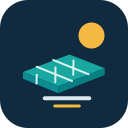
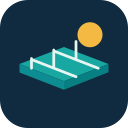
Expose total grid import and export energy

Changed region(s): [[0.125, 0.1875, 0.875, 0.8438], [0.6562, 0.1562, 0.75, 0.1875], [0.625, 0.1875, 0.6562, 0.2188]]

diff --git a/tests/test_models.py b/tests/test_models.py
@@ -214,6 +214,12 @@ class RegisterMapTests(unittest.TestCase):
         self.assertEqual(mappings["fields"]["WH"]["scale"], 100)
         self.assertEqual(mappings["fields"]["MTR_W"]["address"], 5600)
         self.assertEqual(mappings["fields"]["MTR_W"]["invalid_values"], [2147483647])
+        self.assertEqual(mappings["fields"]["MTR_TotWhImp"]["address"], 13036)
+        self.assertEqual(mappings["fields"]["MTR_TotWhImp"]["scale"], 100)
+        self.assertEqual(mappings["fields"]["MTR_TotWhImp"]["word_order"], "swap")
+        self.assertEqual(mappings["fields"]["MTR_TotWhExp"]["address"], 13045)
+        self.assertEqual(mappings["fields"]["MTR_TotWhExp"]["scale"], 100)
+        self.assertEqual(mappings["fields"]["MTR_TotWhExp"]["word_order"], "swap")
 
     def test_community_profile_values_encode_at_documented_sunspec_points(self):
         profile_path = (
@@ -291,6 +297,63 @@ class RegisterMapTests(unittest.TestCase):
         self.assertEqual(
             registers[model_203_data + meter_offsets["MTR_W"]], 0xF63C
         )
+
+    def test_meter_model_exposes_total_grid_import_and_export_energy(self):
+        profile_path = (
+            Path(__file__).parents[1]
+            / "addon"
+            / "sungrow_sunspec"
+            / "profiles"
+            / "sh25t_shb.community.json"
+        )
+        mappings = load_register_map(profile_path)
+        meter_data = {
+            "MTR_TotWhImp": 1_234_500,
+            "MTR_TotWhExp": 987_600,
+        }
+        data = build_dashboard_data(
+            mappings, meter_data, updated_at="2025-01-01T00:00:00+00:00", error=False
+        )
+        meter = next(model for model in data["models"] if model["id"] == 203)
+        points = {point["name"]: point for point in meter["points"]}
+        self.assertEqual(
+            (
+                points["MTR_TotWhImp"]["label"],
+                points["MTR_TotWhImp"]["value"],
+                points["MTR_TotWhImp"]["unit"],
+            ),
+            ("Total grid import", 1234.5, "kWh"),
+        )
+        self.assertEqual(
+            (
+                points["MTR_TotWhExp"]["label"],
+                points["MTR_TotWhExp"]["value"],
+                points["MTR_TotWhExp"]["unit"],
+            ),
+            ("Total grid export", 987.6, "kWh"),
+        )
+
+        model_203_header = (
+            40000
+            + 4
+            + 66
+            + 2
+            + sum(point[1] for point in INVERTER_POINTS)
+            + 2
+            + sum(point[1] for point in STORAGE_POINTS)
+        )
+        model_203_data = model_203_header + 2
+        meter_offsets = {
+            point[0]: sum(item[1] for item in METER_POINTS[:index])
+            for index, point in enumerate(METER_POINTS)
+        }
+        registers = build_registers(mappings, meter_data)
+        for name, value in meter_data.items():
+            self.assertEqual(
+                (registers[model_203_data + meter_offsets[name]] << 16)
+                | registers[model_203_data + meter_offsets[name] + 1],
+                value,
+            )
 
 
 if __name__ == "__main__":

diff --git a/tests/test_modbus.py b/tests/test_modbus.py
@@ -14,6 +14,7 @@ from modbus import (
     parse_allowed_clients,
     read_mapped_fields,
 )
+from models import load_register_map
 
 
 class FakeClient:
@@ -78,6 +79,37 @@ class ModbusRequestTests(unittest.TestCase):
             values = await read_mapped_fields(client, fields)
             self.assertEqual(values, {"W": -0.1, "WH": 20})
             self.assertEqual(client.calls, [("input", 10, 3)])
+
+        asyncio.run(run_test())
+
+    def test_profile_decodes_total_grid_energy_from_word_swapped_counters(self):
+        async def run_test():
+            client = FakeClient()
+            client.registers = {
+                13036: 12345,
+                13037: 0,
+                13045: 9876,
+                13046: 0,
+            }
+            profile_path = (
+                Path(__file__).parents[1]
+                / "addon"
+                / "sungrow_sunspec"
+                / "profiles"
+                / "sh25t_shb.community.json"
+            )
+            fields = load_register_map(profile_path)["fields"]
+            values = await read_mapped_fields(
+                client,
+                {
+                    name: fields[name]
+                    for name in ("MTR_TotWhImp", "MTR_TotWhExp")
+                },
+            )
+            self.assertEqual(
+                values,
+                {"MTR_TotWhImp": 1_234_500, "MTR_TotWhExp": 987_600},
+            )
 
         asyncio.run(run_test())
 

diff --git a/addon/sungrow_sunspec/app/models.py b/addon/sungrow_sunspec/app/models.py
@@ -179,6 +179,8 @@ POINT_LABELS = {
     (203, "MTR_WphA"): ("Grid power phase A", "W"),
     (203, "MTR_WphB"): ("Grid power phase B", "W"),
     (203, "MTR_WphC"): ("Grid power phase C", "W"),
+    (203, "MTR_TotWhImp"): ("Total grid import", "kWh"),
+    (203, "MTR_TotWhExp"): ("Total grid export", "kWh"),
 }
 POINT_UNITS = {
     "A": "A",
@@ -437,6 +439,8 @@ def build_dashboard_data(
                     exponent = mappings["scale_factors"].get(scale_point, 0)
                     value = round(value / (10**exponent)) * (10**exponent)
             if model_id == 103 and name == "WH" and available:
+                value = round(value / 1000, 1)
+            if model_id == 203 and name in {"MTR_TotWhImp", "MTR_TotWhExp"} and available:
                 value = round(value / 1000, 1)
             model_points.append(
                 {

diff --git a/SPECIFICATION.md b/SPECIFICATION.md
@@ -87,6 +87,8 @@ the target SunSpec engineering unit.
 | 203 `WphA` | Meter phase A active power | 5602 | int32, swap | 1 W | 0 |
 | 203 `WphB` | Meter phase B active power | 5604 | int32, swap | 1 W | 0 |
 | 203 `WphC` | Meter phase C active power | 5606 | int32, swap | 1 W | 0 |
+| 203 `TotWhImp` | Total grid import energy | 13036 | uint32, swap | 100 Wh/raw | 0 |
+| 203 `TotWhExp` | Total grid export energy | 13045 | uint32, swap | 100 Wh/raw | 0 |
 
 The `WH` source is the upstream lifetime PV generation counter; it is not
 asserted to be an exact inverter AC output-energy counter. `TmpSnk` is a proxy

diff --git a/CHANGELOG.md b/CHANGELOG.md
@@ -2,6 +2,12 @@
 
 Notable changes to this project are documented here.
 
+## [0.3.3]
+
+- Refresh the add-on icon and logo with a cleaner, consistent visual design.
+- Ignore JetBrains `.idea/` project files.
+- Map cumulative grid import and export energy into SunSpec model 203.
+
 ## [0.3.2]
 
 - Display lifetime PV generation in kWh on the dashboard while retaining Wh in
